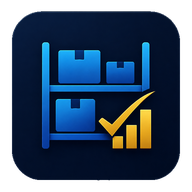
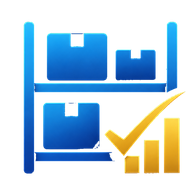
Add files via upload

diff --git a/templates/_mobile_head.html b/templates/_mobile_head.html
@@ -1,14 +1,14 @@
 <meta name="theme-color" content="#12181f">
-<link rel="icon" type="image/x-icon" href="{{ url_for('static', filename='favicon.ico') }}?v=3">
-<link rel="icon" type="image/png" sizes="32x32" href="{{ url_for('static', filename='favicon-32.png') }}?v=3">
-<link rel="apple-touch-icon" href="{{ url_for('static', filename='app-icon-192.png') }}?v=3">
+<link rel="icon" type="image/x-icon" href="{{ url_for('static', filename='favicon.ico') }}?v=4">
+<link rel="icon" type="image/png" sizes="32x32" href="{{ url_for('static', filename='favicon-32.png') }}?v=4">
+<link rel="apple-touch-icon" href="{{ url_for('static', filename='app-icon-192.png') }}?v=4">
 <meta name="mobile-web-app-capable" content="yes">
 <meta name="apple-mobile-web-app-capable" content="yes">
 <meta name="apple-mobile-web-app-status-bar-style" content="black-translucent">
 <meta name="apple-mobile-web-app-title" content="Controle Estoque">
-<link rel="manifest" href="{{ url_for('static', filename='manifest.webmanifest') }}?v=3">
+<link rel="manifest" href="{{ url_for('static', filename='manifest.webmanifest') }}?v=4">
 <script>
 if ('serviceWorker' in navigator) {
-  window.addEventListener('load', () => navigator.serviceWorker.register('/service-worker.js?v=3').catch(() => {}));
+  window.addEventListener('load', () => navigator.serviceWorker.register('/service-worker.js?v=4').catch(() => {}));
 }
 </script>

diff --git a/static/service-worker.js b/static/service-worker.js
@@ -1,12 +1,12 @@
-const CACHE = 'controle-estoque-mobile-v3';
+const CACHE = 'controle-estoque-mobile-v4';
 const STATIC = [
-  '/static/favicon.ico?v=3',
-  '/static/favicon-32.png?v=3',
-  '/static/app-icon-192.png?v=3',
-  '/static/app-icon-512.png?v=3',
-  '/static/mobile-icon-192.png?v=3',
-  '/static/mobile-icon-512.png?v=3',
-  '/static/manifest.webmanifest?v=3'
+  '/static/favicon.ico?v=4',
+  '/static/favicon-32.png?v=4',
+  '/static/app-icon-192.png?v=4',
+  '/static/app-icon-512.png?v=4',
+  '/static/mobile-icon-192.png?v=4',
+  '/static/mobile-icon-512.png?v=4',
+  '/static/manifest.webmanifest?v=4'
 ];
 self.addEventListener('install', event => {
   event.waitUntil(caches.open(CACHE).then(cache => cache.addAll(STATIC)).catch(() => {}));
